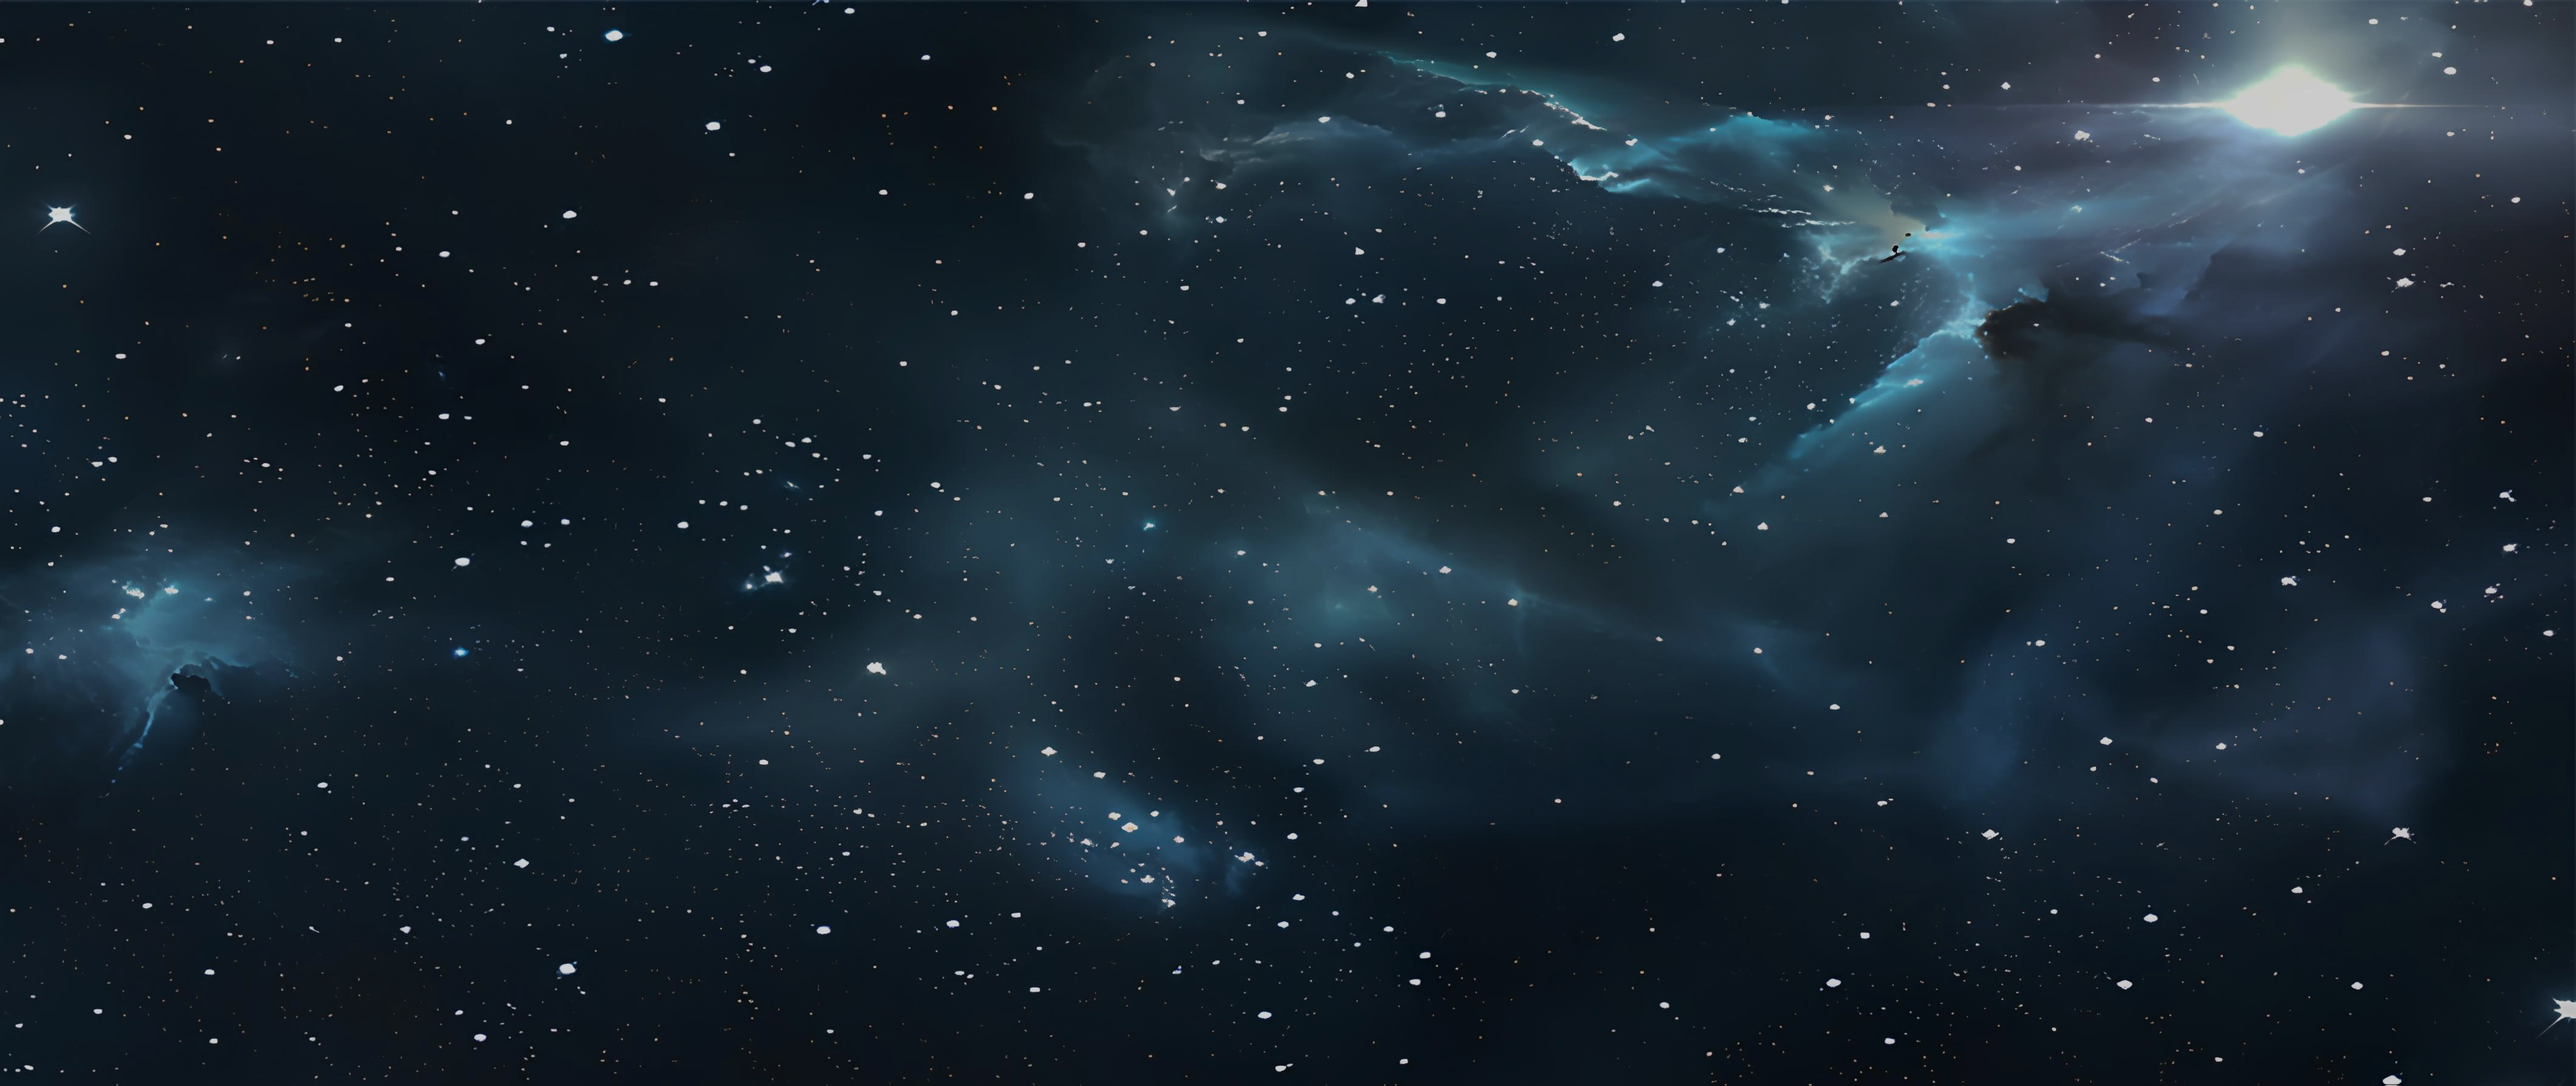
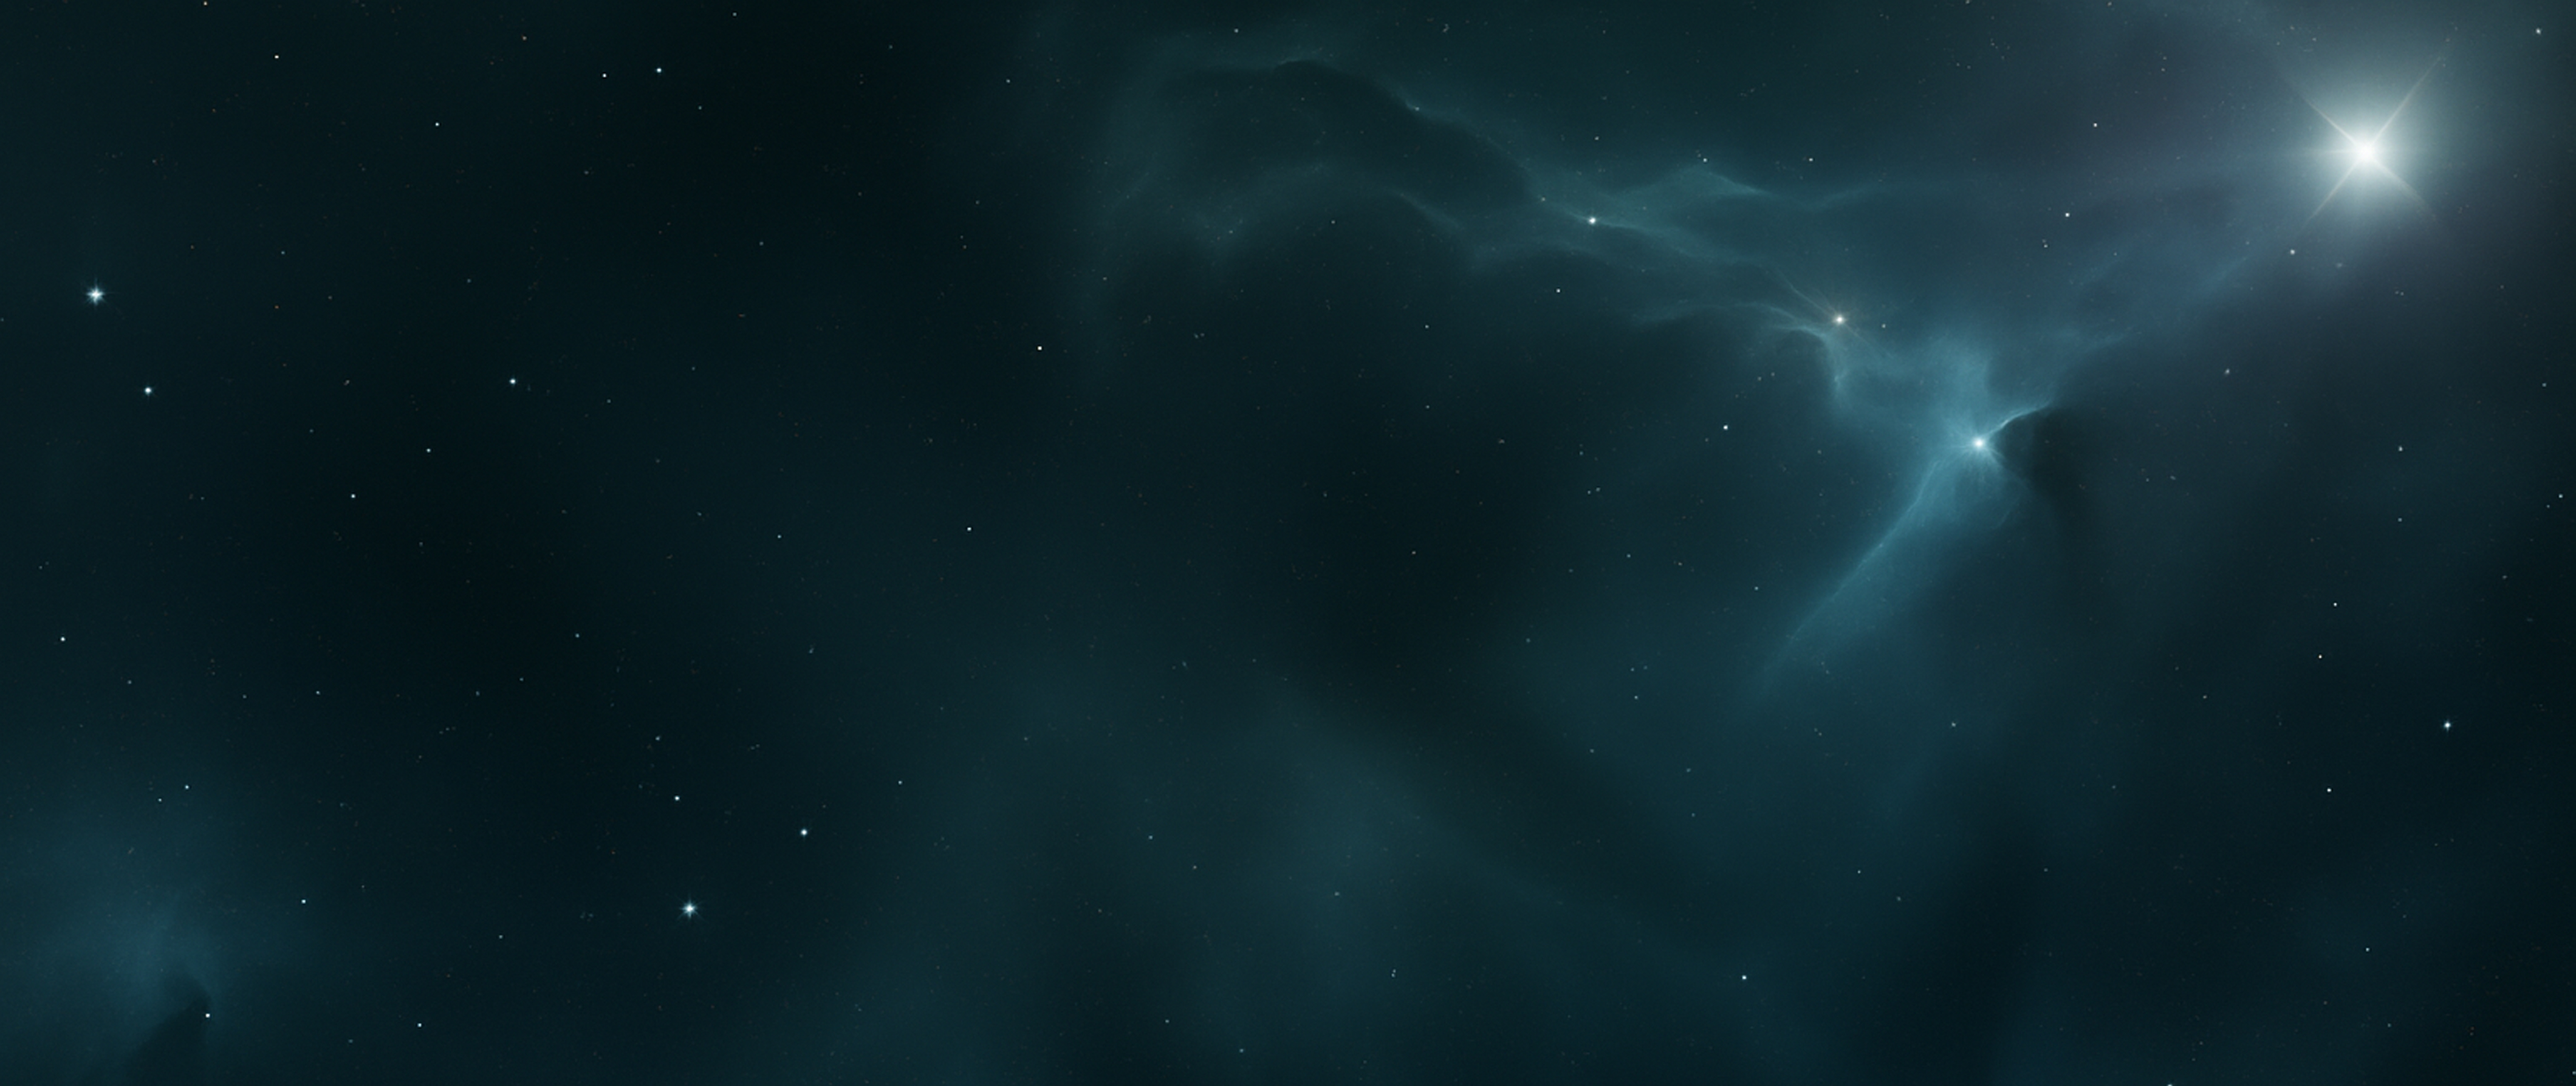
portfolio update 1 march 2025

diff --git a/portfolio/index.html b/portfolio/index.html
@@ -88,7 +88,7 @@
 
       <!-- About -->
       <div class="about-text-container">
-        <h3 class="title" id="about">About &nbsp</h3>
+        <h3 class="title" id="about">About &nbsp <img src="media/images/arrow.png" alt="arrow-down" style="width: 1.6rem; "> </h3>
 
         <hr />
 
@@ -96,8 +96,9 @@
           <!-- <i class="fa-solid fa-angles-right"></i> -->
           <p class="about-text">
             <strong class="about-title">
-              From Designing the Physical World to Exploring the Digital World:
-              A Lifelong Learner
+              From Designing Physical Spaces to Exploring Digital Realms: A Lifelong Learner
+              <!-- From Designing the Physical World to Exploring the Digital World:
+              A Lifelong Learner -->
               <!-- From Shaping the Physical world to Exploring the Digital world, A Journey of Continuous Learning -->
               <!-- From Designing the Physical World to Wxploring the Digital One: Forever a Learner -->
               <!-- Former Physical Space Designer, Now a Digital Solution Creator,
@@ -211,7 +212,7 @@
               <i class="fa-solid fa-envelope"></i>&nbsp: alavi.jav@gmail.com
             </div>
             <div class="about-address-link">
-              <a href="media/cvs/Resume17_web.pdf" class="cv-link"
+              <a href="comin_soon.html" class="cv-link"
                 ><i class="fa-regular fa-file"></i>&nbspView CV</a
               >
               <a class="contact-link" href="#contact">Contact</a>
@@ -246,13 +247,13 @@
         <div class="skills">
           <!-- <h3 class="title" id="skills">Skills</h3> -->
           <hr />
-          <div
+          <!-- <div
             data-aos="fade-down"
             data-aos-anchor-placement="center-bottom"
             data-aos-duration="1600"
             data-aos-offset="30"
             data-aos-delay="100"
-          >
+          > -->
             <div class="skills-container">
               <div class="skills-card" id="skill">
                 <div class="skill-image">
@@ -368,13 +369,13 @@
         <div class="skills">
           <!-- <h3 class="title" id="skills">Skills</h3> -->
           <hr />
-          <div
+          <!-- <div
             data-aos="fade-down"
             data-aos-anchor-placement="center-bottom"
             data-aos-duration="1600"
             data-aos-offset="30"
             data-aos-delay="100"
-          >
+          > -->
             <div class="skills-container">
               <div class="skills-card" id="skill">
                 <div class="skill-image">
@@ -439,13 +440,13 @@
         <div class="skills">
           <!-- <h3 class="title" id="skills">Skills</h3> -->
           <hr />
-          <div
+          <!-- <div
             data-aos="fade-down"
             data-aos-anchor-placement="center-bottom"
             data-aos-duration="1600"
             data-aos-offset="30"
             data-aos-delay="100"
-          >
+          > -->
             <div class="skills-container">
               <div class="skills-card" id="skill">
                 <div class="skill-image">
@@ -528,14 +529,14 @@
       <h3 class="title" id="projects">Projects</h3>
       <hr />
 
-      <div
+      <!-- <div
         class="projects"
         data-aos="fade-down"
-        data-aos-anchor-placement="center"
+        data-aos-anchor-placement="bottom"
         data-aos-duration="1600"
-        data-aos-offset="40"
+        data-aos-offset="-40"
         data-aos-delay="100"
-      >
+      > -->
         <!-- All Projects (Default view) -->
         <div class="projects" id="projects-all">
           <!-- <h3>All Projects</h3> -->
@@ -562,6 +563,15 @@
           <!-- Project Content Comes Here From js File -->
         </div>
 
+         <!-- Research Projects -->
+         
+         <div class="projects" id="projects-research">
+          
+          <h3 class="sub-title" id="projects-research">Data_Analyst_Projects</h3>
+          <div id="projects-research-container" class="projects-container"></div>
+          <!-- Research projects content goes here -->
+        </div>
+
         <!-- Design Projects -->
         <div class="projects" id="projects-design">
           <!-- <h3>Design Projects</h3> -->
@@ -580,11 +590,7 @@
           <!-- Project Content Comes Here From js File -->
         </div>
 
-        <!-- Research Projects -->
-        <div class="projects" id="projects-research">
-          <h3>Research Projects</h3>
-          <!-- Research projects content goes here -->
-        </div>
+       
       </div>
 
       <!-- Contact -->

diff --git a/portfolio/styles.css b/portfolio/styles.css
@@ -996,8 +996,8 @@ label {
 }
 
 .projects-card {
-  width: 32rem;
-  min-height: 23rem;
+  width: 40rem;
+  min-height: 28rem;
   background-color: #fefefe;
   margin: 1rem;
   border-radius: 1rem;
@@ -1018,8 +1018,8 @@ label {
 
 .project-container {
   position: relative;
-  width: 32rem;
-  height: 24rem;
+  width: 40rem;
+  height: 28rem;
   overflow: hidden;
 }
 
@@ -1187,9 +1187,9 @@ label {
 }
 
 .project-image img {
-  width: 34rem;
-  height: 19rem;
-  margin-left: -0.8rem;
+  /* width: 40rem;
+  height: 25rem;
+  margin-left: -0.8rem; */
   object-fit: cover;
 }
 
@@ -1214,7 +1214,7 @@ label {
 }
 
 .project-detail-container {
-  height: 20%;
+  height: 30%;
   display: flex;
   flex-direction: column;
   align-items: center;
@@ -1443,18 +1443,19 @@ footer {
   }
 
   .cover-image {
-    height: 40rem;
+    height: 57rem;
     z-index: 1;
+    background-color: #08537c;
   }
 
   .portrait-image {
     font-size: 2rem;
-    height: 25rem;
-    width: 25rem;
+    height: 28rem;
+    width: 28rem;
     border-radius: 50rem;
     position: absolute;
     top: 50%;
-    left: 50%;
+    left: 45%;
     transform: translate(80%, -50%);
     color: #eee;
   }
@@ -1488,7 +1489,7 @@ footer {
 
   #particles-js {
     
-    height: 40rem;
+    height: 65rem;
    
   }
 }

diff --git a/portfolio/style.js b/portfolio/style.js
@@ -176,6 +176,18 @@ document.addEventListener("DOMContentLoaded", function() {
                   projectsGroup3Container.appendChild(projectCard);
               });
           }
+
+             // Group 4 projects container
+             const projectsResearchContainer = document.getElementById('projects-research-container');
+             if (projectsResearchContainer) {  // Check if the container exists
+                 const group4Projects = data.group_4;  // Assuming the JSON is structured
+                 group4Projects.forEach(project => {
+                     const projectCard = createProjectCard(project);
+                     projectsResearchContainer.appendChild(projectCard);
+                 });
+             }
+
+          
       })
       .catch(error => console.error('Error loading projects:', error));
 });
